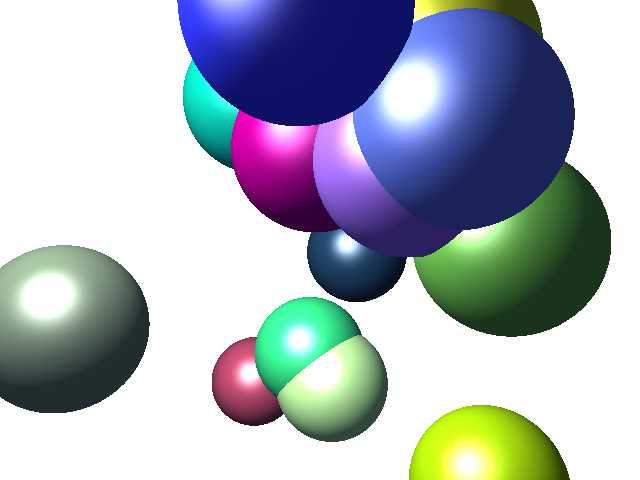
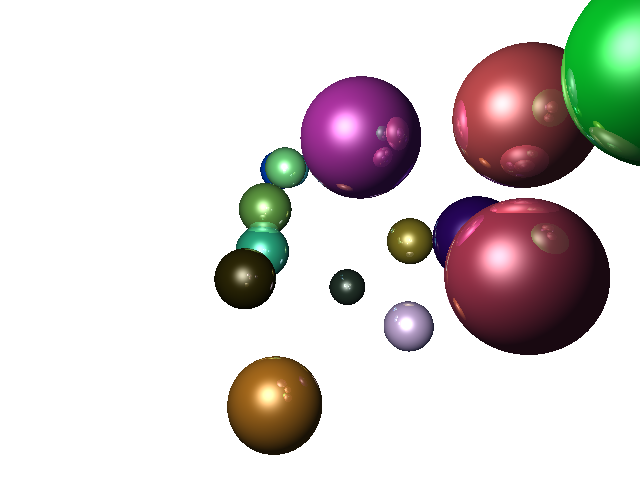
Reflections are here

diff --git a/goray/renderer.go b/goray/renderer.go
@@ -6,27 +6,32 @@ import "math"
 
 
 func vecToNRGBA(v Vector) color.NRGBA {
-	v = VecMin(v, Vector{1,1,1})
+	v = VecMin(v, Vector{1,1,1}).Scale(255.0)
 	return color.NRGBA {
-		uint8(v.X * 255.0),
-		uint8(v.Y * 255.0),
-		uint8(v.Z * 255.0),
+		uint8(v.X),
+		uint8(v.Y),
+		uint8(v.Z),
 		255,
 	}
 }
 
-func RayTrace(surfaces []Surface, ray Ray) (bool, Vector) {
+func RayTrace(surfaces []Surface, ray Ray, recursionDepth int) (bool, Vector) {
+
+	maxRecursion := 8
 
 	// TODO: full lighting control.  this really should not be here!
 	light := Vector{-1.0, 1.0, 1.0}
 	lightColor := Vector{1.0, 1.0, 1.0}
 
 	shadowColorScale := Vector{0.6, 0.7, 1.0}
-	ambientAmount := 0.4
+	ambientAmount := 0.3
+	reflectivity := 0.5
 
 	hit := false
 	mindist := math.MaxFloat32
 	color := Vector{}
+
+	closestResult := TraceResult{}
 
 	for _, surface := range surfaces {
 		result := surface.Trace(ray)
@@ -36,6 +41,7 @@ func RayTrace(surfaces []Surface, ray Ray) (bool, Vector) {
 			distance := surfaceToOrigin.Length()
 			if distance < mindist {
 				mindist = distance
+				closestResult = result
 				surfaceToLight := Subtract(light, result.Intersection).Normalized()
 				surfaceToOrigin = surfaceToOrigin.Normalized()
 				ambient := result.Color.ElementScale(shadowColorScale).Scale(ambientAmount)
@@ -44,6 +50,16 @@ func RayTrace(surfaces []Surface, ray Ray) (bool, Vector) {
 				color = Add(Add(ambient, diffuse), specular)
 			}
 		}
+	}
+
+	if hit && (recursionDepth <= maxRecursion) {
+		reflection := ray.Direction.Negate().Reflect(closestResult.Normal).Normalized()
+		liftedOrigin := Add(closestResult.Intersection, reflection.Scale(0.000001))
+		reflectedRay := Ray{liftedOrigin, reflection}
+		recursiveHit, recursiveColor := RayTrace(surfaces, reflectedRay, recursionDepth + 1)
+		if recursiveHit {
+			color = Add(color, recursiveColor.Scale(reflectivity))
+		} 
 	}
 
 	return hit, color
@@ -66,10 +82,10 @@ func Render(surfaces []Surface, camera Camera, width, height int) image.Image {
 			// compensate for image y direction
 			ray := view.Ray(x - halfwidth, -y + halfheight)
 
-			hit, color := RayTrace(surfaces, ray)
+			hit, color := RayTrace(surfaces, ray, 1)
 
 			if hit {
-				img.Set(x, y, vecToNRGBA(color))
+				img.Set(x, y, vecToNRGBA(color.Scale(0.7)))
 			}
 		}
 	}

diff --git a/goray/vector.go b/goray/vector.go
@@ -2,6 +2,7 @@ package goray
 
 import "math"
 import "math/rand"
+import "fmt"
 
 // 3D vectors
 
@@ -17,6 +18,10 @@ func Add(a, b Vector) Vector {
 
 func Subtract(a, b Vector) Vector {
 	return Vector{a.X - b.X, a.Y - b.Y, a.Z - b.Z}
+}
+
+func (a Vector) Negate() Vector {
+	return Vector{-a.X, -a.Y, -a.Z}
 }
 
 func (a Vector) Scale(s float64) Vector {
@@ -57,6 +62,13 @@ func (a Vector) OrthogonalTo(b Vector) Vector {
 	return Subtract(a, a.ProjectedOnto(b))
 }
 
+// b must be normalized
+func (a Vector) Reflect(b Vector) Vector {
+	projected := a.ProjectedOnto(b)
+	diff := Subtract(a, projected)
+	return Subtract(projected, diff)
+}
+
 func RandomVectorUniform(mins, maxes Vector) Vector {
 	delta := Subtract(maxes, mins)
 	return Vector{
@@ -76,4 +88,8 @@ func VecMax(a, b Vector) Vector {
 
 func (a Vector) ElementScale (b Vector) Vector {
 	return Vector{a.X * b.X, a.Y * b.Y, a.Z * b.Z}
+}
+
+func (a Vector) String() string {
+	return fmt.Sprintf("(%6.2f, %6.2f, %6.2f)", a.X, a.Y, a.Z)
 }

diff --git a/goray/surface.go b/goray/surface.go
@@ -47,19 +47,25 @@ func (s Sphere) Trace(r Ray) TraceResult {
 		return result
 	}
 
-	result.Hit = true
 	hitTime := 0.0
 
+	// todo: clean up conditionals...
 	if math.Abs(discriminant) < math.SmallestNonzeroFloat64 {
+		result.Hit = true
 		hitTime = -b / (2.0 * a)
 	} else {
 		sqrtDiscriminant := math.Sqrt(discriminant)
 		lowRoot := (-b - sqrtDiscriminant) / (2.0 * a)
 		highRoot := (-b + sqrtDiscriminant) / (2.0 * a)
 		if lowRoot > 0 {
+			result.Hit = true
 			hitTime = lowRoot
-		} else {
+		} else if highRoot > 0 {
+			result.Hit = true
 			hitTime = highRoot
+		} else {
+			result.Hit = false
+			return result
 		}
 	}
 
@@ -68,10 +74,3 @@ func (s Sphere) Trace(r Ray) TraceResult {
 	result.Color = s.Color
 	return result
 }
-
-
-
-
-
-		
-

diff --git a/goraytest/main.go b/goraytest/main.go
@@ -9,7 +9,7 @@ import "time"
 
 func main() {
 
-	numSpheres := 20
+	numSpheres := 15
 
 	rand.Seed(time.Now().UTC().UnixNano())
 
@@ -18,8 +18,8 @@ func main() {
 	black := goray.Vector{0, 0, 0}
 	white := goray.Vector{1, 1, 1}
 
-	boxmin := goray.Vector{-1, -1, 0.5}
-	boxmax := goray.Vector{1, 1, 5.0}
+	boxmin := goray.Vector{-1.2, -1.2, 1.0}
+	boxmax := goray.Vector{1.2, 1.2, 10.0}
 
 	for i := range surfaces {
 		randomPosition := goray.RandomVectorUniform(boxmin, boxmax)
